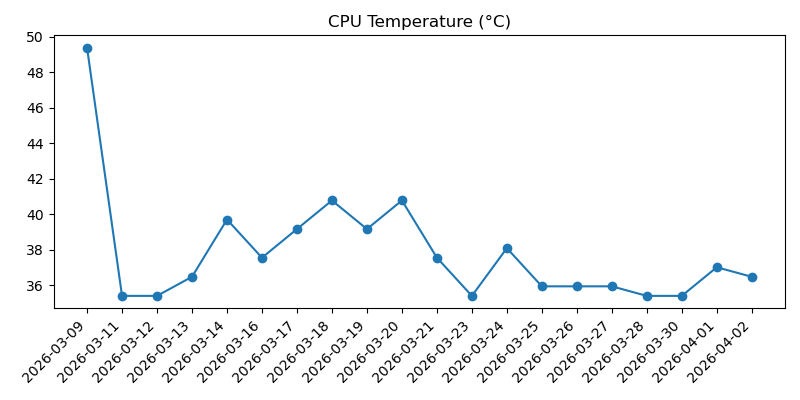
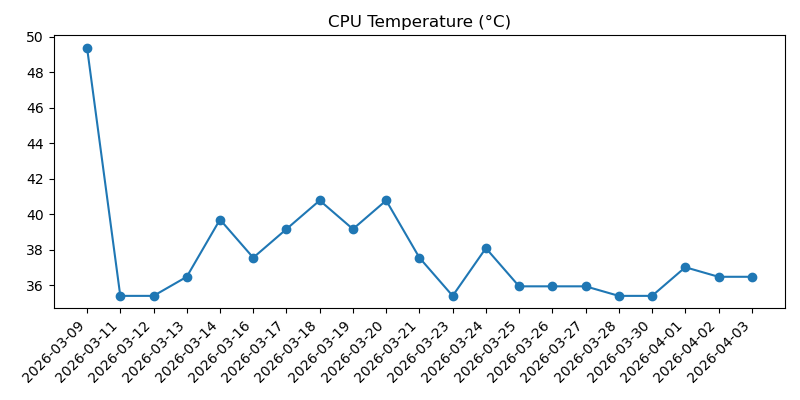
Add daily health and weather snapshot

diff --git a/2026-04.md b/2026-04.md
@@ -68,3 +68,37 @@
 - Overall: Good
 - Warning: None
 
+## 2026-04-03 15:39:41
+
+### Machine
+- Uptime: up 3 days, 1 hour, 35 minutes
+- CPU load (1m, 5m, 15m): 0.00, 0.00, 0.00
+- RAM used: 163 MB / 921 MB (17.7%)
+- Disk used (/): 3.5 GB / 28.8 GB (12.2%)
+- Free disk space (/): 24.1 GB
+- CPU temp: 36.5°C
+- Voltage / throttling: OK
+
+### Reachability
+- Internet check (1.1.1.1): Reachable (3.8 ms)
+
+### Weather
+- Madrid:
+  - Condition: Despejado
+  - Max temp: 22°C
+  - Min temp: 5°C
+  - Feels like: 13°C
+  - Chance of rain: 0%
+  - Warnings: None reported
+- Barcelona:
+  - Condition: Despejado
+  - Max temp: 21°C
+  - Min temp: 12°C
+  - Feels like: 16°C
+  - Chance of rain: 0%
+  - Warnings: None reported
+
+### Health
+- Overall: Good
+- Warning: None
+
